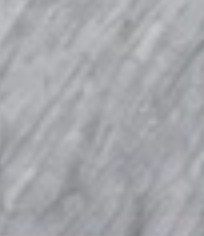
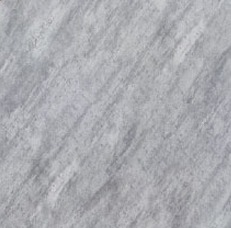
Tambah koleksi Fluted Panel (Mevvah) di Wall Panel; ganti foto Matt Concrete
- 3 tipe: MVH.FLT-175 (7 warna), MVH.FLT-195 & MVH.FLT-202 (3 warna)
- Tiap tipe: foto produk, gambar penampang, spesifikasi lebar/panjang/tebal
- Pilihan warna tampil sebagai kotak warna bergaris; bisa diganti foto per warna
- Koleksi kini mendukung foto per grup, penampang, dan motif berupa warna
- Foto Matt Concrete diganti dengan versi baru yang tajam

Claude-Session: https://claude.ai/code/session_017cfuhMcdWJUUQcLU6hNbKU

diff --git a/assets/js/main.js b/assets/js/main.js
@@ -222,13 +222,18 @@ function renderProduk(id) {
       const list = [];
       let start = 0;
       for (const [i, { m, g }] of semua.entries()) {
-        const u = await cariFoto(m.foto);
+        // motif tanpa foto (hanya warna) memakai foto produk tipenya
+        const u = await cariFoto(m.foto) || await cariFoto(g.foto);
         if (!u) continue;
         if (i === +c.dataset.i) start = list.length;
-        list.push({ src: u, cap: `${k.nama} · ${m.nama} — ${g.nama}`,
-          wa: `Halo Central Niaga Hardware, saya ingin tanya harga ${p.nama} ${k.merek ? k.merek + ' ' : ''}${k.nama} motif ${m.nama}.` });
+        list.push({ src: u, cap: `${k.nama} · ${g.nama} — ${m.nama}`,
+          wa: `Halo Central Niaga Hardware, saya ingin tanya harga ${p.nama} ${k.merek ? k.merek + ' ' : ''}${k.nama} ${g.nama} ${k.satuan || 'motif'} ${m.nama}.` });
       }
       if (list.length) lightbox(list, start);
+    }));
+    $$('[data-src-foto]', el).forEach(t => t.addEventListener('click', async () => {
+      const u = await cariFoto(t.dataset.srcFoto);
+      if (u) lightbox([{ src: u, cap: $('.foto', t).dataset.alt }]);
     }));
     $('.kol-kat', el)?.addEventListener('click', async () => {
       const u = await cariFoto(k.katalog);
@@ -249,6 +254,7 @@ function renderProduk(id) {
 
 function renderKoleksi(p, k, ki) {
   const total = k.grup.reduce((n, g) => n + g.motif.length, 0);
+  const sat = esc(k.satuan || 'motif');
   const chips = sp => sp && sp.length ? `<ul class="kol-sp">${sp.map(r => `<li><small>${esc(r[0])}</small>${esc(r[1])}</li>`).join('')}</ul>` : '';
   const kata = k.nama.split(' ');
   const judul = kata.length > 1 ? `${esc(kata.slice(0, -1).join(' '))} <em>${esc(kata.at(-1))}</em>` : `<em>${esc(k.nama)}</em>`;
@@ -257,14 +263,26 @@ function renderKoleksi(p, k, ki) {
     <div class="kol-hd">
       <div><div class="eb rv">Koleksi ${esc(p.nama)}${k.merek ? ' · ' + esc(k.merek) : ''}</div><h2 data-split>${judul}</h2></div>
       <div class="kol-in rv"><p class="lead">${esc(k.deskripsi || '')}</p>${chips(k.spesifikasi)}
-        <div class="kol-meta"><span><b>${total}</b> motif</span>${k.katalog ? '<button type="button" class="ul kol-kat">Lihat katalog asli ↗</button>' : ''}</div></div>
+        <div class="kol-meta"><span><b>${total}</b> ${sat}</span>${k.katalog ? '<button type="button" class="ul kol-kat">Lihat katalog asli ↗</button>' : ''}</div></div>
     </div>
     ${k.grup.length > 1 ? `<div class="kol-f rv" role="group" aria-label="Filter motif"><button type="button" data-g="*" aria-pressed="true">Semua <sup>${total}</sup></button>${k.grup.map((g, gi) => `<button type="button" data-g="${gi}" aria-pressed="false">${esc(g.nama)} <sup>${g.motif.length}</sup></button>`).join('')}</div>` : ''}
-    ${k.grup.map((g, gi) => `<div class="kol-g" data-g="${gi}">
-      <div class="kol-gh rv"><h3>${esc(g.nama)}</h3><span>${g.motif.length} motif</span>${chips(g.spesifikasi)}</div>
-      <div class="mv-grid">${g.motif.map((m, mi) => `<button type="button" class="mv rv" style="--d:${(mi % 6) * .05}s" data-i="${i++}" data-cursor="Lihat">
-        <span class="mv-ph"><span class="foto tex stn" data-foto="${esc(m.foto)}" data-alt="${esc(k.nama + ' ' + m.nama)}"></span>${m.baru ? '<em class="mv-new">New</em>' : ''}</span>
-        <span class="mv-n">${esc(m.nama)}</span></button>`).join('')}</div></div>`).join('')}
+    ${k.grup.map((g, gi) => {
+      const kotak = `<div class="mv-grid${g.foto ? ' kecil' : ''}">${g.motif.map((m, mi) => `<button type="button" class="mv rv" style="--d:${(mi % 6) * .05}s" data-i="${i++}" data-cursor="Lihat">
+        <span class="mv-ph${m.warna ? ' warna' : ''}"${m.warna ? ` style="--w:${esc(m.warna)}"` : ''}><span class="foto${m.warna ? '' : ' tex stn'}" data-foto="${esc(m.foto)}" data-alt="${esc(k.nama + ' ' + m.nama)}"></span>${m.baru ? '<em class="mv-new">New</em>' : ''}</span>
+        <span class="mv-n">${esc(m.nama)}</span></button>`).join('')}</div>`;
+      const kepala = `<div class="kol-gh rv"><h3>${esc(g.nama)}</h3><span>${g.motif.length} ${sat}</span>${g.foto ? '' : chips(g.spesifikasi)}</div>`;
+      if (!g.foto) return `<div class="kol-g" data-g="${gi}">${kepala}${kotak}</div>`;
+      // Tipe produk: foto produk + penampang + spesifikasi + pilihan warna
+      return `<div class="kol-g tipe" data-g="${gi}">${kepala}
+        <div class="tp">
+          <button type="button" class="tp-img rv-img" data-cursor="Perbesar" data-src-foto="${esc(g.foto)}"><span class="foto" data-foto="${esc(g.foto)}" data-alt="${esc(k.nama + ' ' + g.nama)}"></span></button>
+          <div class="tp-in">
+            ${chips(g.spesifikasi)}
+            ${g.penampang ? `<div class="tp-l rv">Penampang</div><button type="button" class="tp-sec rv" data-cursor="Perbesar" data-src-foto="${esc(g.penampang)}"><span class="foto" data-foto="${esc(g.penampang)}" data-alt="Penampang ${esc(g.nama)}"></span></button>` : ''}
+            <div class="tp-l rv">Pilihan ${sat}</div>${kotak}
+          </div>
+        </div></div>`;
+    }).join('')}
   </section>`;
 }
 

diff --git a/assets/js/pengaturan.js b/assets/js/pengaturan.js
@@ -63,6 +63,44 @@ const PENGATURAN = {
         { nama: 'Walnut',    foto: 'foto/produk/wall-panel/motif/walnut', tekstur: 'wood wal' },
         { nama: 'Grey Wood', foto: 'foto/produk/wall-panel/motif/grey',   tekstur: 'wood gry' },
         { nama: 'Black Oak', foto: 'foto/produk/wall-panel/motif/black',  tekstur: 'wood blk' }
+      ],
+      /* KOLEKSI — format sama seperti Marble Series di Wall Board.
+         Tambahan khusus per grup (tipe):  foto = foto produk,  penampang = gambar penampang.
+         Motif boleh pakai  warna: '#kode'  — tampil sebagai kotak warna bergaris fluted
+         selama foto motif (mis. .../flt-175/dark-wood.jpg) belum ada. */
+      koleksi: [
+        {
+          nama: 'Fluted Panel',
+          merek: 'Mevvah',
+          satuan: 'warna',
+          deskripsi: 'Panel dinding bergaris (fluted) untuk aksen dinding yang modern dan berdimensi. Tersedia 3 tipe profil dengan pilihan warna kayu hingga warna solid.',
+          katalog: 'foto/produk/wall-panel/fluted/katalog',
+          spesifikasi: [],
+          grup: [
+            { nama: 'MVH.FLT-175', foto: 'foto/produk/wall-panel/fluted/flt-175', penampang: 'foto/produk/wall-panel/fluted/flt-175-penampang',
+              spesifikasi: [['Lebar', '17,5 cm'], ['Panjang', '290 cm'], ['Tebal', '2 cm']], motif: [
+              { nama: 'Dark Wood', warna: '#6a453b', foto: 'foto/produk/wall-panel/fluted/flt-175/dark-wood' },
+              { nama: 'Wood', warna: '#bc7647', foto: 'foto/produk/wall-panel/fluted/flt-175/wood' },
+              { nama: 'Light Wood', warna: '#ebcab3', foto: 'foto/produk/wall-panel/fluted/flt-175/light-wood' },
+              { nama: 'Blue', warna: '#3c8c9a', foto: 'foto/produk/wall-panel/fluted/flt-175/blue' },
+              { nama: 'Dark Grey', warna: '#7f7f7f', foto: 'foto/produk/wall-panel/fluted/flt-175/dark-grey' },
+              { nama: 'Grey', warna: '#bebebe', foto: 'foto/produk/wall-panel/fluted/flt-175/grey' },
+              { nama: 'Light Blue', warna: '#83a9d9', foto: 'foto/produk/wall-panel/fluted/flt-175/light-blue' }
+            ] },
+            { nama: 'MVH.FLT-195', foto: 'foto/produk/wall-panel/fluted/flt-195', penampang: 'foto/produk/wall-panel/fluted/flt-195-penampang',
+              spesifikasi: [['Lebar', '19,5 cm'], ['Panjang', '290 cm'], ['Tebal', '1,2 cm']], motif: [
+              { nama: 'Dark Wood', warna: '#6a453b', foto: 'foto/produk/wall-panel/fluted/flt-195/dark-wood' },
+              { nama: 'Wood', warna: '#bc7647', foto: 'foto/produk/wall-panel/fluted/flt-195/wood' },
+              { nama: 'Light Wood', warna: '#ebcab3', foto: 'foto/produk/wall-panel/fluted/flt-195/light-wood' }
+            ] },
+            { nama: 'MVH.FLT-202', foto: 'foto/produk/wall-panel/fluted/flt-202', penampang: 'foto/produk/wall-panel/fluted/flt-202-penampang',
+              spesifikasi: [['Lebar', '20,2 cm'], ['Panjang', '290 cm'], ['Tebal', '2,7 cm']], motif: [
+              { nama: 'Dark Wood', warna: '#6a453b', foto: 'foto/produk/wall-panel/fluted/flt-202/dark-wood' },
+              { nama: 'Wood', warna: '#bc7647', foto: 'foto/produk/wall-panel/fluted/flt-202/wood' },
+              { nama: 'Light Wood', warna: '#ebcab3', foto: 'foto/produk/wall-panel/fluted/flt-202/light-wood' }
+            ] }
+          ]
+        }
       ]
     },
     {

diff --git a/assets/css/style.css b/assets/css/style.css
@@ -396,6 +396,21 @@ body.menu-open .menu-in a:nth-child(1){transition-delay:.25s}body.menu-open .men
 .mv:hover .mv-n{color:var(--acc)}
 @media (max-width:980px){.kol-hd{grid-template-columns:1fr;align-items:start}.kol-gh .kol-sp{margin:6px 0 0;width:100%}}
 @media (max-width:520px){.mv-grid{grid-template-columns:repeat(2,1fr);gap:18px 12px}.kol-f{flex-wrap:nowrap;overflow-x:auto;scrollbar-width:none;margin-left:calc(-1 * clamp(16px,4vw,40px));margin-right:calc(-1 * clamp(16px,4vw,40px));padding-left:clamp(16px,4vw,40px);padding-right:clamp(16px,4vw,40px)}.kol-f::-webkit-scrollbar{display:none}.kol-f button{flex:none}}
+.mv-grid.kecil{grid-template-columns:repeat(auto-fill,minmax(96px,1fr));gap:16px 12px}
+.mv-grid.kecil .mv-n{font-size:10.5px;letter-spacing:.08em;margin-top:9px}
+.mv-ph.warna{background:repeating-linear-gradient(90deg,rgba(0,0,0,.2) 0 2px,rgba(255,255,255,.14) 2px 4px,transparent 4px 22px),linear-gradient(90deg,rgba(0,0,0,.06),rgba(255,255,255,.12) 50%,rgba(0,0,0,.08)),var(--w)}
+.tp{display:grid;grid-template-columns:minmax(0,440px) minmax(0,1fr);gap:clamp(24px,4vw,56px);align-items:start}
+.tp-img,.tp-sec{position:relative;display:block;width:100%;border:0;padding:0;cursor:zoom-in;background:#0f0e0d;overflow:hidden}
+.tp-img{aspect-ratio:1.05;border-radius:22px}
+.tp-img .foto>img,.tp-sec .foto>img{object-fit:contain}
+.tp-img .foto{transition:transform 1.4s var(--ease)}.tp-img:hover .foto{transform:scale(1.05)}
+.tp-sec{aspect-ratio:2.1;border-radius:16px;max-width:560px}
+.tp-in .kol-sp{margin:0 0 26px}
+.tp-l{font-size:10.5px;letter-spacing:.22em;text-transform:uppercase;font-weight:700;color:var(--mut);margin:0 0 12px}
+.tp-sec+.tp-l{margin-top:28px}
+.rv-img.tp-img>.foto{clip-path:inset(100% 0 0 0 round 22px)}
+.rv-img.tp-img.in>.foto{clip-path:inset(0 0 0 0 round 22px)}
+@media (max-width:860px){.tp{grid-template-columns:1fr}.tp-img{max-width:480px}}
 body:has(#hd.hide) .kol-f{top:0}
 #lb .lb-wa{position:static;width:auto;height:auto;margin-top:2px}
 #lb .lb-wa[hidden]{display:none}

diff --git a/index.html b/index.html
@@ -243,7 +243,7 @@
 <div id="lb" aria-hidden="true" role="dialog" aria-label="Galeri foto">
   <button class="lb-x" aria-label="Tutup">✕</button>
   <button class="lb-nav lb-p" aria-label="Sebelumnya">←</button>
-  <figure><img alt=""><figcaption></figcaption><a class="btn acc sm lb-wa" target="_blank" rel="noopener" hidden><span>Tanya Harga Motif Ini</span><i>→</i></a></figure>
+  <figure><img alt=""><figcaption></figcaption><a class="btn acc sm lb-wa" target="_blank" rel="noopener" hidden><span>Tanya Harga via WhatsApp</span><i>→</i></a></figure>
   <button class="lb-nav lb-n" aria-label="Berikutnya">→</button>
 </div>
 

diff --git a/PANDUAN-FOTO.md b/PANDUAN-FOTO.md
@@ -28,6 +28,7 @@ foto/
 │   ├── wall-panel/
 │   │   ├── sampul.jpg      ← kartu produk di beranda (portrait)
 │   │   ├── motif/          ← oak.jpg, walnut.jpg, grey.jpg, black.jpg (persegi 1:1)
+│   │   ├── fluted/         ← Fluted Panel Mevvah: flt-175.jpg, flt-175-penampang.jpg, ... (lihat BACA-SAYA.txt)
 │   │   └── galeri/         ← 1.jpg, 2.jpg, 3.jpg, ... (hasil pemasangan)
 │   ├── wall-board/
 │   │   ├── sampul.jpg
@@ -60,8 +61,10 @@ Wall Board punya bagian **Koleksi** berisi Marble Series dari Mevvah: 23 motif d
 
 - Foto motif ada di `foto/produk/wall-board/marble-series/`, satu file per motif
   (nama motif huruf kecil, spasi jadi `-`, mis. `new-york.jpg`).
-- Foto sudah versi tajam, kecuali `matt-concrete.jpg` yang masih resolusi rendah —
-  **timpa dengan foto HD memakai nama file yang sama**.
+- Untuk mengganti foto, **timpa file dengan nama yang sama**.
+- Wall Panel punya koleksi **Fluted Panel** Mevvah: 3 tipe (MVH.FLT-175, -195, -202), masing-masing
+  dengan foto produk, gambar penampang, spesifikasi, dan pilihan warna. Warna tampil sebagai kotak
+  warna bergaris; taruh foto per warna (mis. `fluted/flt-175/dark-wood.jpg`) untuk menggantinya.
 - Menambah motif, grup, atau seri baru (juga untuk produk lain): edit bagian `koleksi`
   di `assets/js/pengaturan.js`. Tandai motif baru dengan `baru: true` agar muncul label "New".
 
